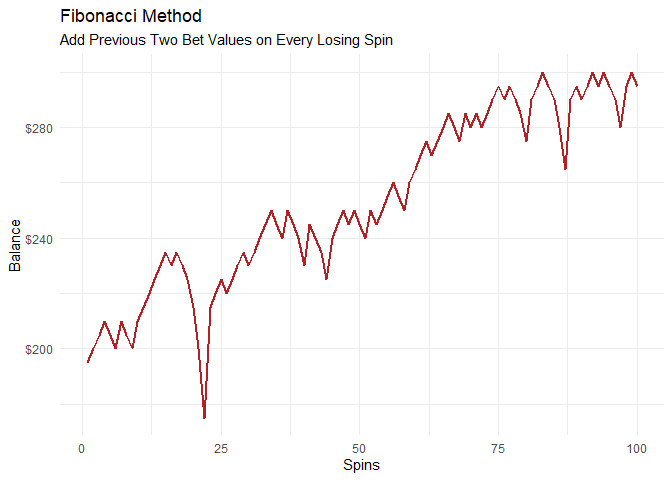
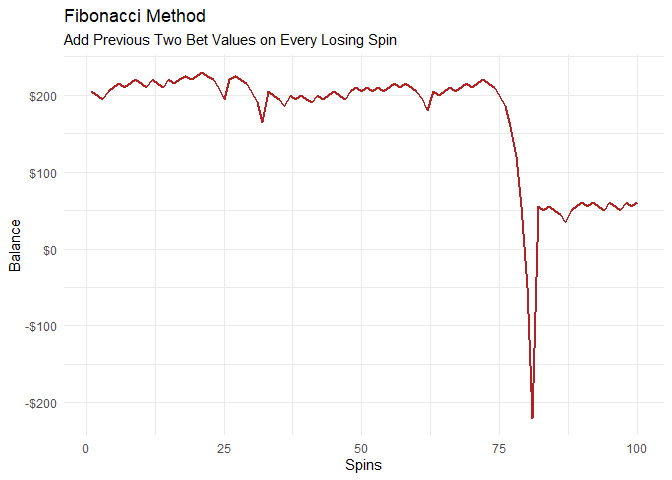
Add files via upload

diff --git a/Roulette/Roulette.md b/Roulette/Roulette.md
@@ -37,8 +37,10 @@ mutate(color = sample(c("Black","Red","Green"),
 mutate(bet = bet_increment,
        all_green = if_else(color == "Green",bet*17,-bet),
        all_red = if_else(color == "Red",bet,-bet),
+       all_black = if_else(color == "Black",bet,-bet),
        green_balance = begn_balance+cumsum(all_green),
        red_balance = begn_balance+cumsum(all_red),
+       black_balance = begn_balance+cumsum(all_black),
        spin_number = as.integer(spin_number),
        streak=sequence(rle(color)$lengths) - 1) %>% 
   group_by(color) %>% mutate(freq = n())
@@ -46,21 +48,21 @@ mutate(bet = bet_increment,
 spins %>% head(10)
 ```
 
-    ## # A tibble: 10 × 9
+    ## # A tibble: 10 × 11
     ## # Groups:   color [2]
-    ##    spin_number color   bet all_green all_red green_balance red_balance streak
-    ##          <int> <chr> <dbl>     <dbl>   <dbl>         <dbl>       <dbl>  <dbl>
-    ##  1           1 Black     5        -5      -5            95          95      0
-    ##  2           2 Red       5        -5       5            90         100      0
-    ##  3           3 Black     5        -5      -5            85          95      0
-    ##  4           4 Black     5        -5      -5            80          90      1
-    ##  5           5 Red       5        -5       5            75          95      0
-    ##  6           6 Black     5        -5      -5            70          90      0
-    ##  7           7 Red       5        -5       5            65          95      0
-    ##  8           8 Black     5        -5      -5            60          90      0
-    ##  9           9 Black     5        -5      -5            55          85      1
-    ## 10          10 Red       5        -5       5            50          90      0
-    ## # ℹ 1 more variable: freq <int>
+    ##    spin_number color   bet all_green all_red all_black green_balance red_balance
+    ##          <int> <chr> <dbl>     <dbl>   <dbl>     <dbl>         <dbl>       <dbl>
+    ##  1           1 Red       5        -5       5        -5            95         105
+    ##  2           2 Black     5        -5      -5         5            90         100
+    ##  3           3 Black     5        -5      -5         5            85          95
+    ##  4           4 Red       5        -5       5        -5            80         100
+    ##  5           5 Black     5        -5      -5         5            75          95
+    ##  6           6 Red       5        -5       5        -5            70         100
+    ##  7           7 Red       5        -5       5        -5            65         105
+    ##  8           8 Red       5        -5       5        -5            60         110
+    ##  9           9 Black     5        -5      -5         5            55         105
+    ## 10          10 Black     5        -5      -5         5            50         100
+    ## # ℹ 3 more variables: black_balance <dbl>, streak <dbl>, freq <int>
 
 To ensure the random sampling is valid, the below graph shows the
 distribution of spins by color. This looks to be as expected.
@@ -102,12 +104,12 @@ spins %>%
     ## # A tibble: 6 × 4
     ##   streak Black Green   Red
     ##    <dbl> <dbl> <dbl> <dbl>
-    ## 1      0  0.51  0.97  0.55
-    ## 2      1  0.25  0.03  0.26
-    ## 3      2  0.12  0     0.1 
-    ## 4      3  0.06  0     0.05
-    ## 5      4  0.03  0     0.02
-    ## 6      5  0.01  0     0.01
+    ## 1      0  0.51  0.98  0.49
+    ## 2      1  0.26  0.02  0.26
+    ## 3      2  0.14  0     0.13
+    ## 4      3  0.06  0     0.06
+    ## 5      4  0.02  0     0.03
+    ## 6      5  0.01  0     0.02
 
 ### Simulation 1 - Constant Amount
 
@@ -115,12 +117,13 @@ The first simulation considers a constant bet for each spin. Here is \$5
 for every spin for black and green.
 
 ``` r
-ggplot(spins %>% select(spin_number,green_balance,red_balance) %>%  pivot_longer(cols = contains("balance"))) +
+ggplot(spins %>% select(spin_number,green_balance,red_balance,black_balance) %>%  pivot_longer(cols = contains("balance"))) +
   aes(x = spin_number, y = value,group=name,color=name) +
   geom_line() +
     scale_color_manual(
     values = c(`green_balance` = "darkgreen",
-               `red_balance` = "firebrick")) +
+               `red_balance` = "firebrick",
+               `black_balance` = "black")) +
   theme_minimal() +
   geom_line(linewidth =1) +
   scale_y_continuous(label=scales::dollar) +
@@ -128,7 +131,7 @@ ggplot(spins %>% select(spin_number,green_balance,red_balance) %>%  pivot_longer
   labs(
     x = "Spins",
     y = "Balance",
-    title = "$5 Every Spin"
+    title = "$5 Every Spin - All Colors"
   )
 ```
 
@@ -141,7 +144,7 @@ ggplot(spins %>% select(spin_number,green_balance,red_balance) %>%  pivot_longer
 Martingale increases bet amounts after each loss where a win would
 offset all previous losses.
 
-Create the doubling sequence…
+First, I create the doubling sequence.
 
 ``` r
 pascalTriangle <- function(h) {
@@ -196,17 +199,17 @@ mutate(streak = coalesce(case_when(color == "Red" & lag(color) == "Red" ~ 1,
 spins %>% head(10)
 ```
 
-    ##    spin_number color streak red_bet  PL balance
-    ## 1            1 Black      1       4  -4     196
-    ## 2            2 Black      2       8  -8     188
-    ## 3            3   Red      3      16  16     204
-    ## 4            4   Red      1       4   4     208
-    ## 5            5 Black      1       4  -4     204
-    ## 6            6   Red      2       8   8     212
-    ## 7            7 Black      1       4  -4     208
-    ## 8            8 Black      2       8  -8     200
-    ## 9            9 Black      3      16 -16     184
-    ## 10          10   Red      4      32  32     216
+    ##    spin_number color streak red_bet PL balance
+    ## 1            1 Black      1       4 -4     196
+    ## 2            2   Red      2       8  8     204
+    ## 3            3 Black      1       4 -4     200
+    ## 4            4   Red      2       8  8     208
+    ## 5            5   Red      1       4  4     212
+    ## 6            6 Green      1       4 -4     208
+    ## 7            7 Black      2       8 -8     200
+    ## 8            8   Red      3      16 16     216
+    ## 9            9 Black      1       4 -4     212
+    ## 10          10 Black      2       8 -8     204
 
 ``` r
 ggplot(spins) +
@@ -229,16 +232,20 @@ Show summary stats for bets, running balance, and single spin
 profit/loss
 
 ``` r
-summary(spins %>% select(red_bet,balance,PL))
+spins %>% 
+  summarise(min_bet = min(red_bet),max_bet = max(red_bet),min_balance = min(balance),min_PL = min(PL),max_PL = max(PL)) %>% 
+  mutate(max_drawdown = begn_balance - min_balance) %>% pivot_longer(cols = everything())
 ```
 
-    ##     red_bet         balance            PL        
-    ##  Min.   : 4.00   Min.   :184.0   Min.   :-16.00  
-    ##  1st Qu.: 4.00   1st Qu.:244.0   1st Qu.: -4.00  
-    ##  Median : 6.00   Median :302.0   Median : -4.00  
-    ##  Mean   : 8.08   Mean   :297.6   Mean   :  1.84  
-    ##  3rd Qu.: 8.00   3rd Qu.:352.0   3rd Qu.:  8.00  
-    ##  Max.   :32.00   Max.   :396.0   Max.   : 32.00
+    ## # A tibble: 6 × 2
+    ##   name         value
+    ##   <chr>        <dbl>
+    ## 1 min_bet          4
+    ## 2 max_bet        128
+    ## 3 min_balance    188
+    ## 4 min_PL         -64
+    ## 5 max_PL         128
+    ## 6 max_drawdown    12
 
 ### Simulation 3 - Fibonacci
 
@@ -289,33 +296,33 @@ mutate(color = sample(c("Black","Red","Green"),
                        prob=c(.4734,.4734,.0532),
                        replace=TRUE)
        ) %>% 
-mutate(red_streak = coalesce(case_when(color == "Red" & lag(color) == "Red" ~ 1,
+mutate(streak = coalesce(case_when(color == "Red" & lag(color) == "Red" ~ 1,
                           color == "Red" & lag(color) != "Red" ~ lag(sequence(rle(color != "Red")$lengths)+1),
                  color != "Red" ~ sequence(rle(color != "Red")$lengths)),1)
        ) %>% 
-  left_join(fib,by=c("red_streak"="spin")) %>% 
+  left_join(fib,by=c("streak"="spin")) %>% 
   rename(red_bet = bet_amount) %>% 
-  mutate(all_red = if_else(color == "Red",red_bet,-red_bet),
-       red_balance = begn_balance+cumsum(all_red))
+  mutate(PL = if_else(color == "Red",red_bet,-red_bet),
+       balance = begn_balance+cumsum(PL))
 
 spins %>% head(10)
 ```
 
-    ##    spin_number color red_streak red_bet rolling_fib_amt all_red red_balance
-    ## 1            1 Black          1       5               5      -5         195
-    ## 2            2   Red          2       5              10       5         200
-    ## 3            3   Red          1       5               5       5         205
-    ## 4            4   Red          1       5               5       5         210
-    ## 5            5 Black          1       5               5      -5         205
-    ## 6            6 Black          2       5              10      -5         200
-    ## 7            7   Red          3      10              20      10         210
-    ## 8            8 Black          1       5               5      -5         205
-    ## 9            9 Black          2       5              10      -5         200
-    ## 10          10   Red          3      10              20      10         210
+    ##    spin_number color streak red_bet rolling_fib_amt PL balance
+    ## 1            1   Red      1       5               5  5     205
+    ## 2            2 Black      1       5               5 -5     200
+    ## 3            3 Black      2       5              10 -5     195
+    ## 4            4   Red      3      10              20 10     205
+    ## 5            5   Red      1       5               5  5     210
+    ## 6            6   Red      1       5               5  5     215
+    ## 7            7 Black      1       5               5 -5     210
+    ## 8            8   Red      2       5              10  5     215
+    ## 9            9   Red      1       5               5  5     220
+    ## 10          10 Black      1       5               5 -5     215
 
 ``` r
 ggplot(spins) +
-    aes(x = as.integer(spin_number), y = red_balance) +
+    aes(x = as.integer(spin_number), y = balance) +
     geom_line(color = "firebrick",linewidth =1) +
     theme_minimal() +
   scale_y_continuous(label=scales::dollar) +
@@ -371,16 +378,16 @@ spins %>% head(10)
 ```
 
     ##    spin_number color streak prev_run  PL balance
-    ## 1            1   Red      0        0   0     200
-    ## 2            2   Red      1        0   0     200
-    ## 3            3 Black      0        1   0     200
-    ## 4            4 Black      1        0   0     200
-    ## 5            5 Black      2        1   0     200
-    ## 6            6 Black      3        2 -10     190
-    ## 7            7 Black      4        3 -10     180
-    ## 8            8 Black      5        4 -10     170
-    ## 9            9   Red      0        5   9     179
-    ## 10          10 Black      0        0   0     179
+    ## 1            1 Black      0        0   0     200
+    ## 2            2 Black      1        0   0     200
+    ## 3            3 Black      2        1   0     200
+    ## 4            4 Black      3        2 -10     190
+    ## 5            5   Red      0        3   9     199
+    ## 6            6 Black      0        0   0     199
+    ## 7            7   Red      0        0   0     199
+    ## 8            8 Black      0        0   0     199
+    ## 9            9 Black      1        0   0     199
+    ## 10          10   Red      0        1   0     199
 
 ``` r
 ggplot(spins) +
